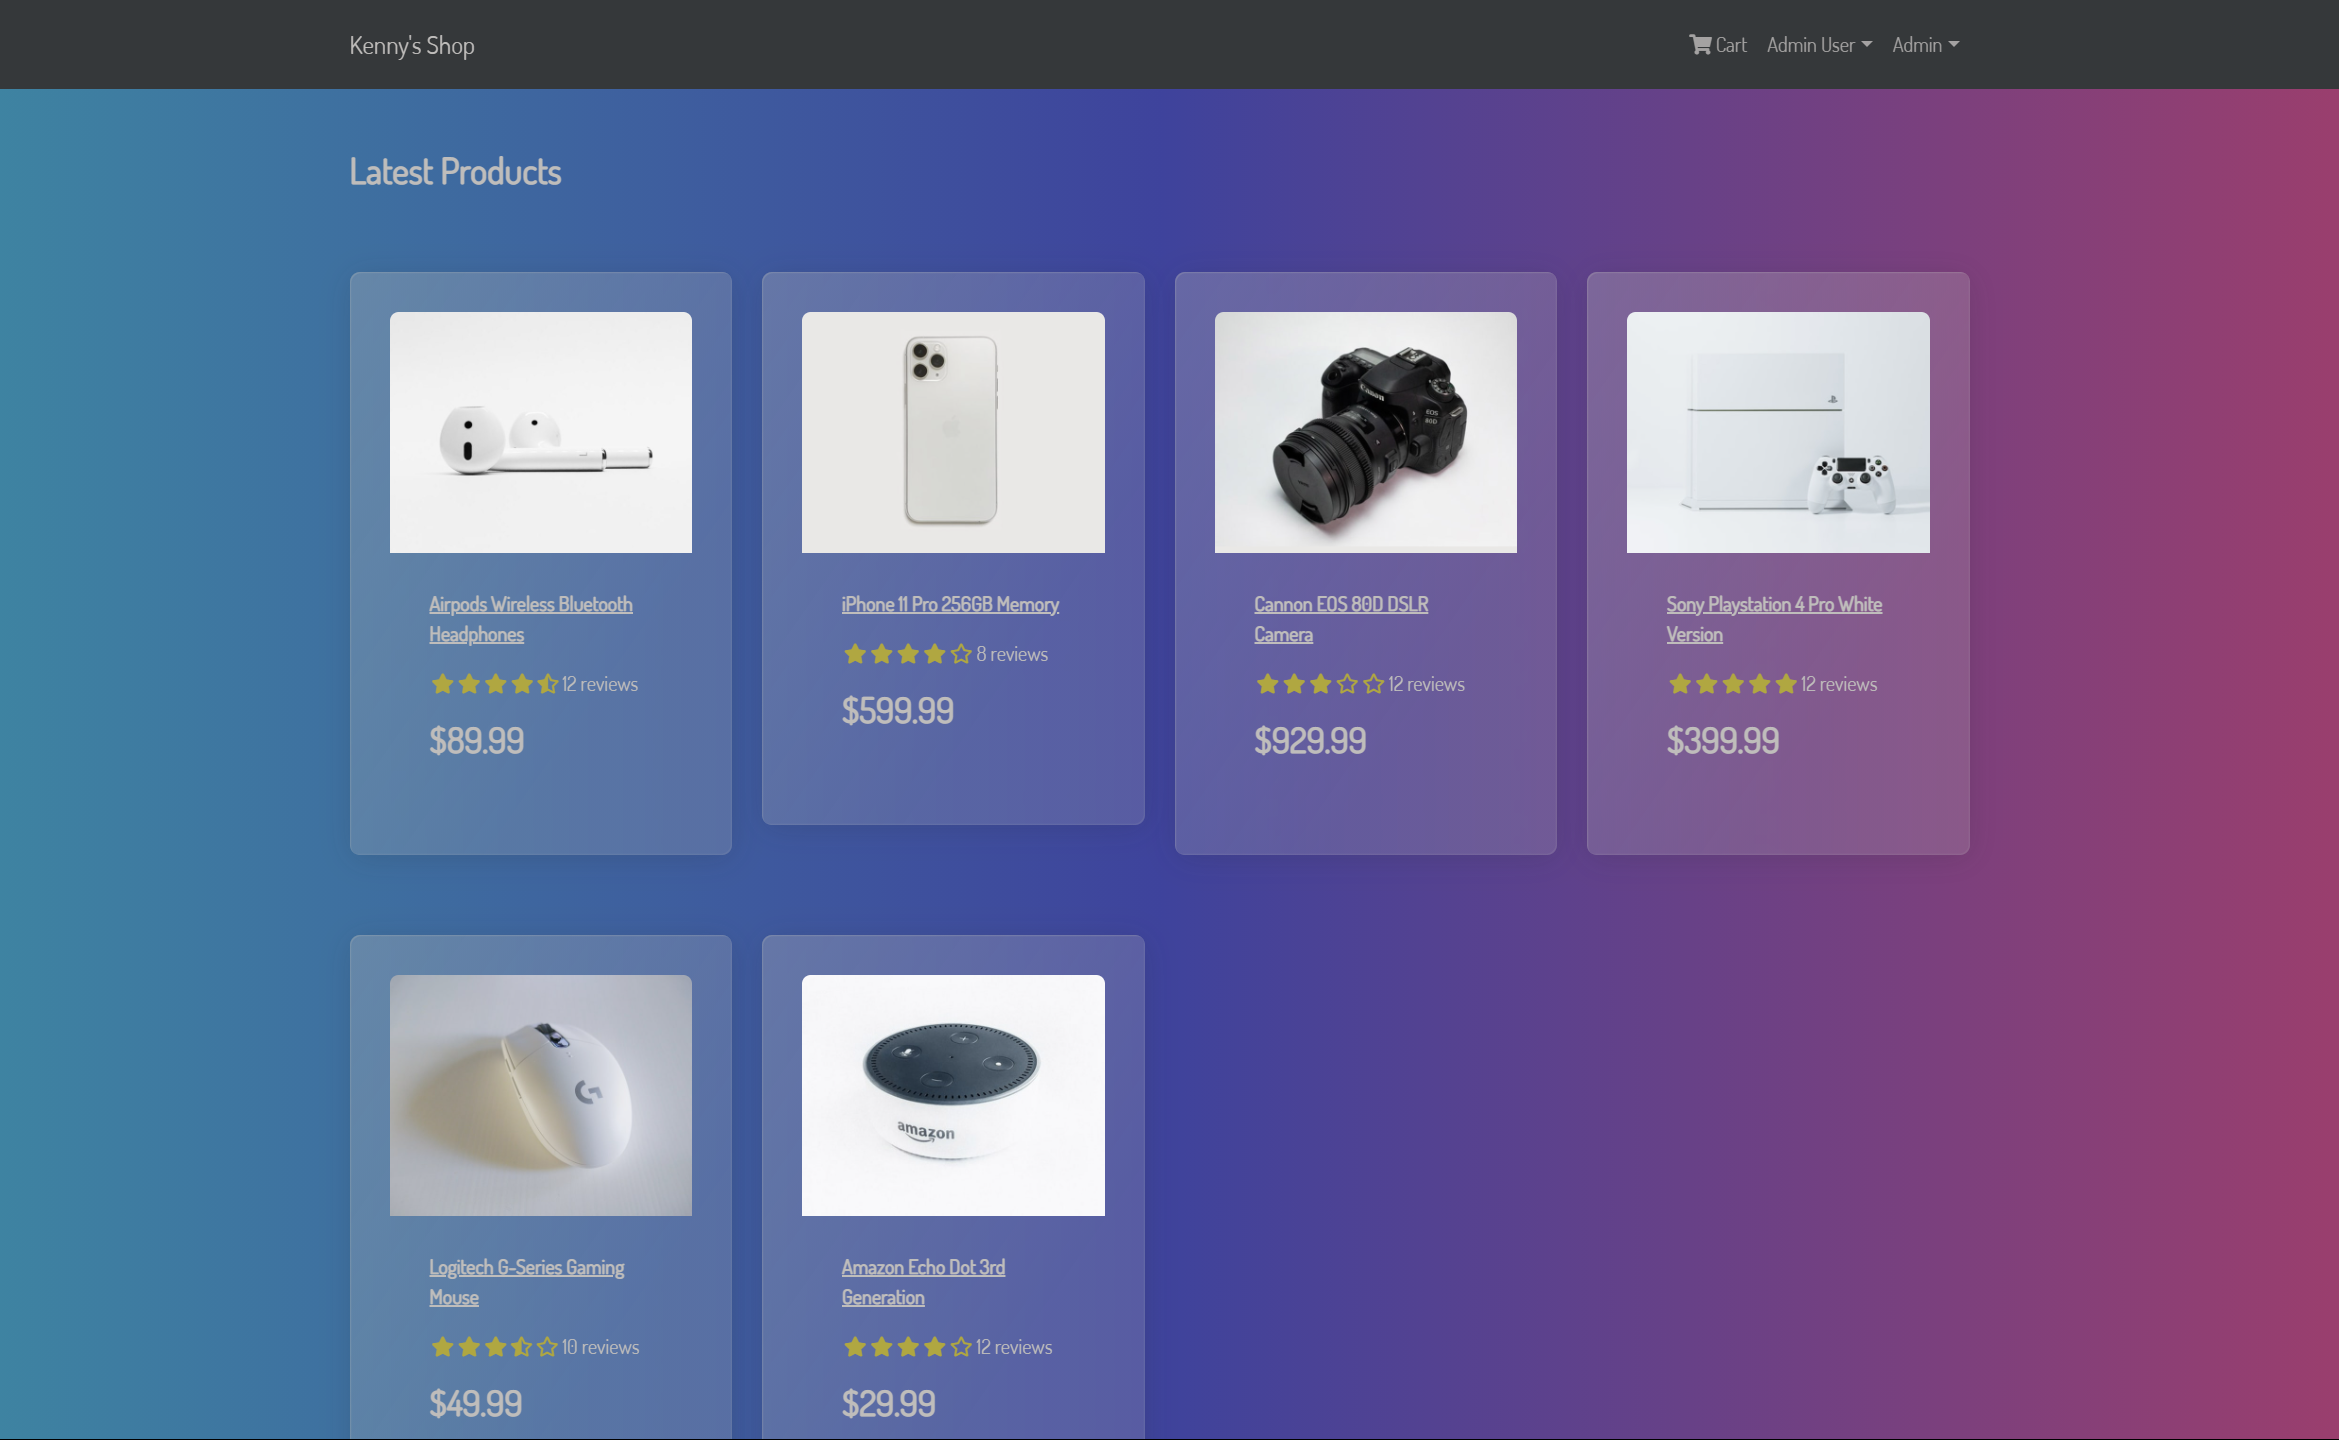
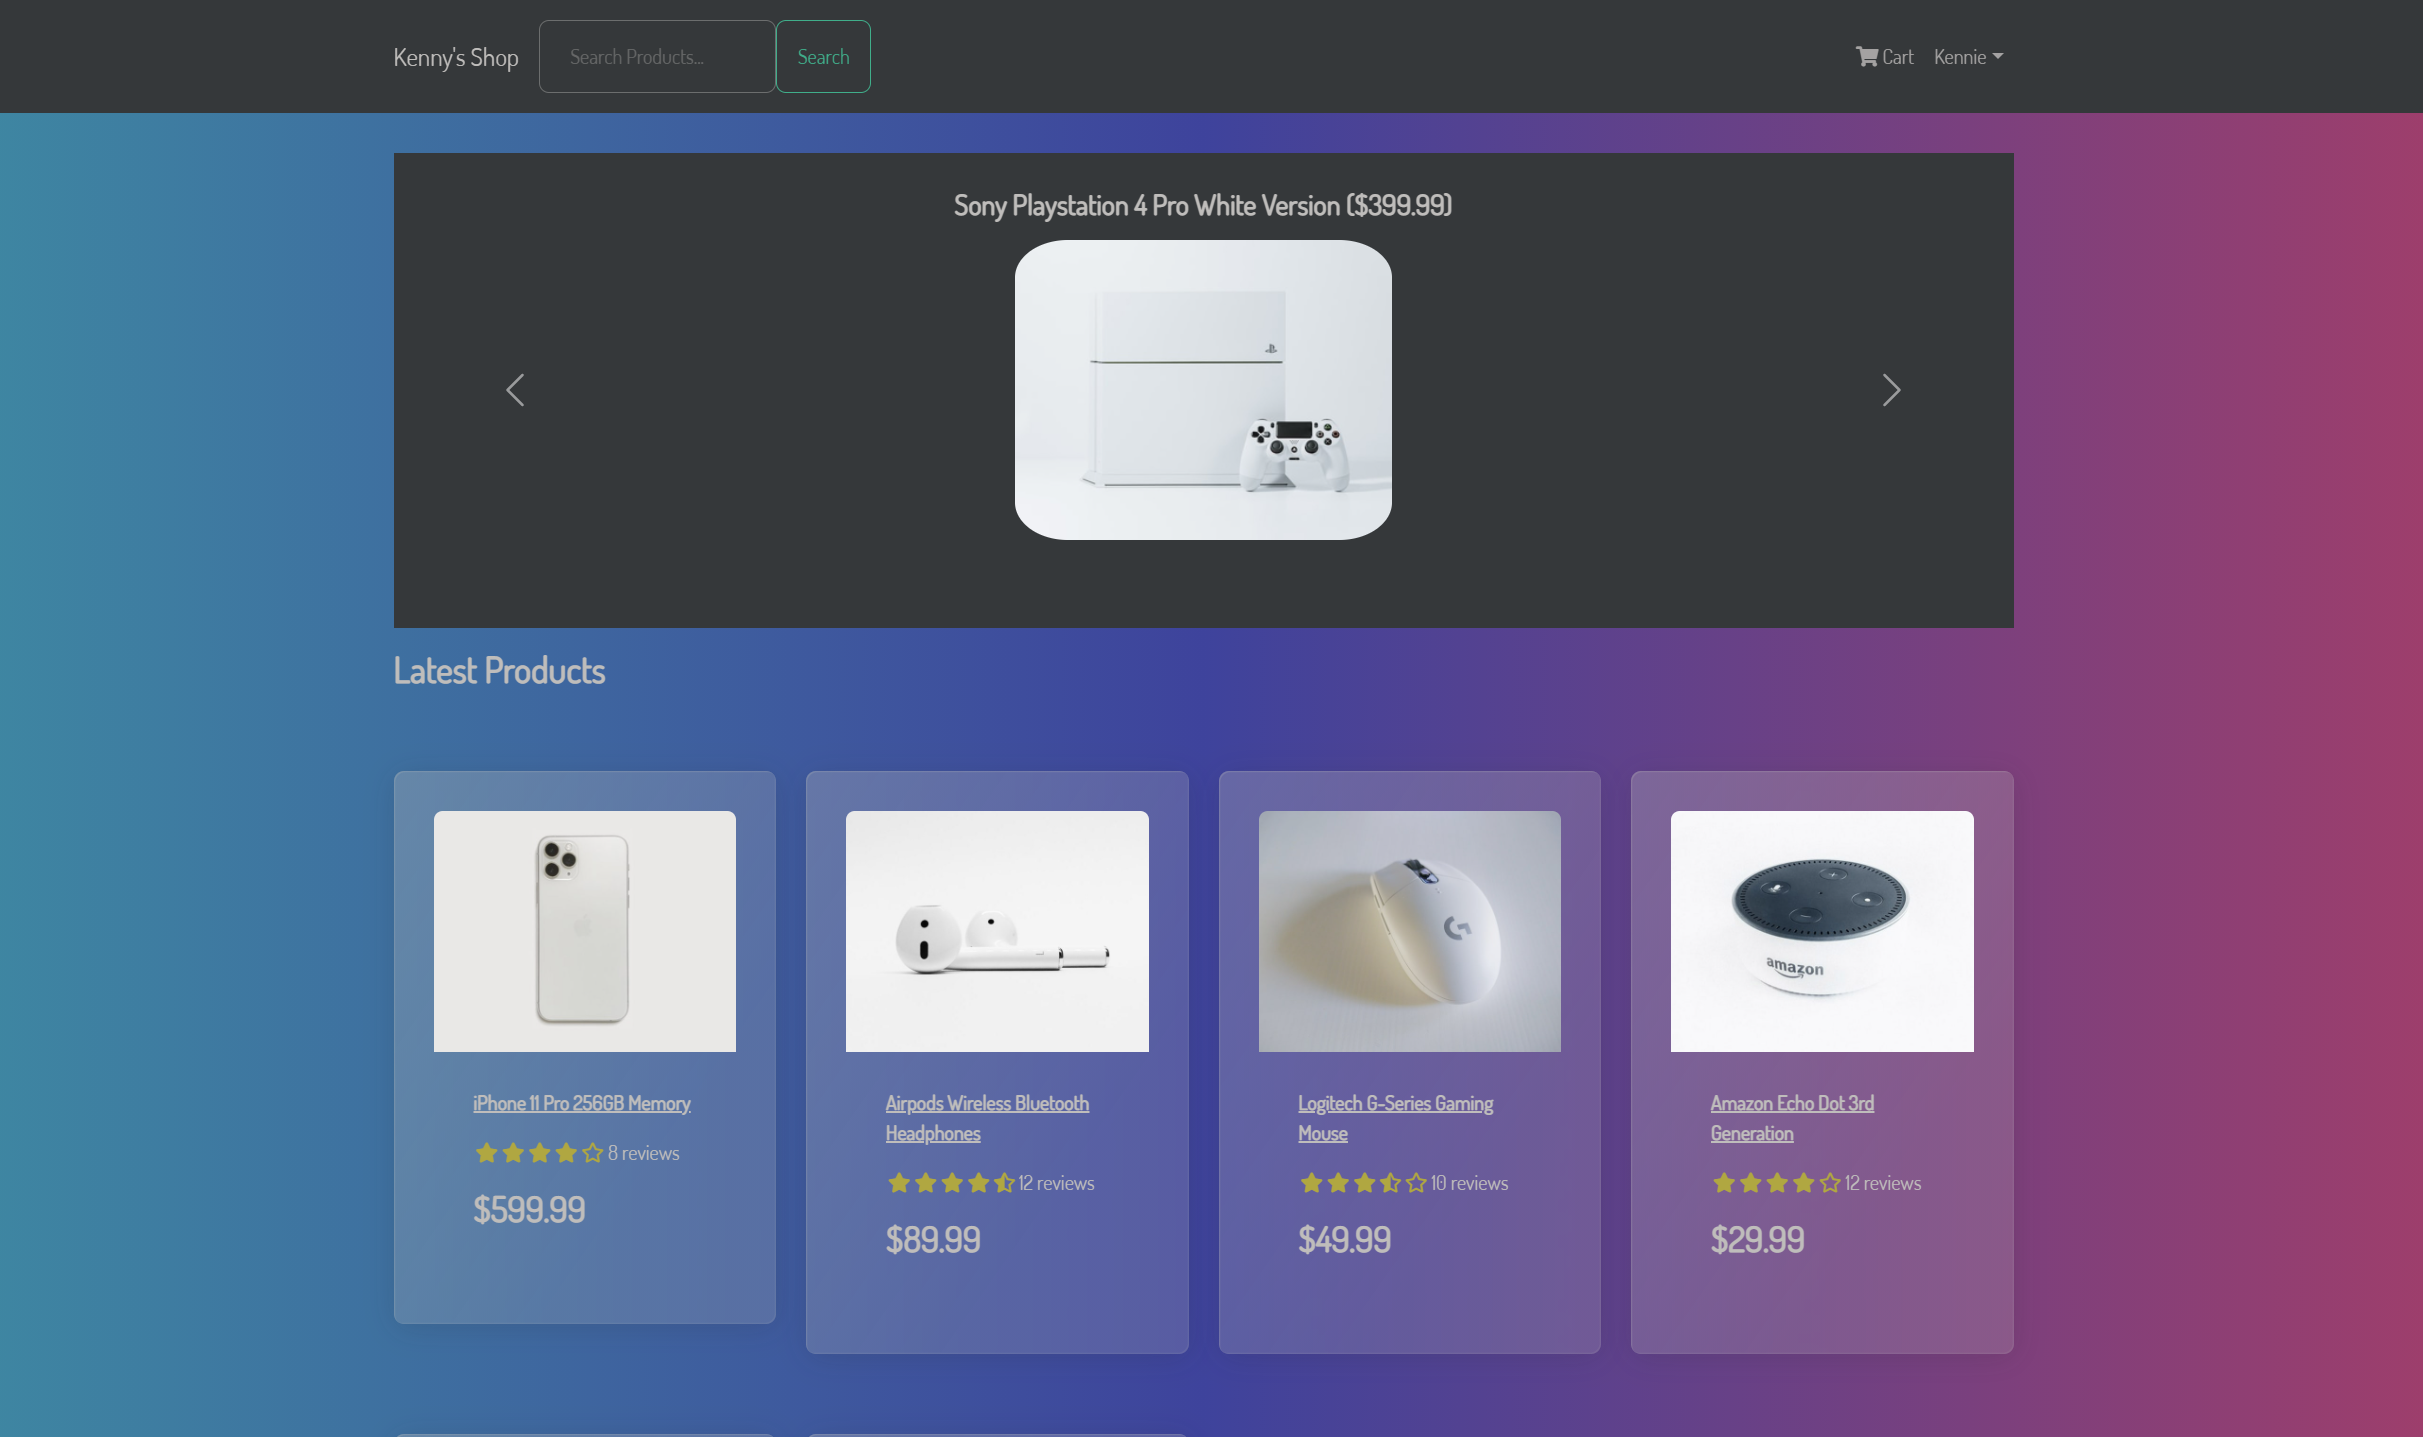
added carousel

diff --git a/frontend/src/screens/HomeScreen.jsx b/frontend/src/screens/HomeScreen.jsx
@@ -1,56 +1,62 @@
-import React, { useState, useEffect } from 'react';
-// use to dispatch our actions & use to select the part of state
-import { useDispatch, useSelector } from 'react-redux';
-import { Row, Col } from 'react-bootstrap';
-import Product from '../components/Product';
-import Loader from '../components/Loader';
-import Paginate from '../components/Paginate';
-import Message from '../components/Message';
-import { listProducts } from '../actions/productActions';
+import React, { useEffect } from 'react'
+import { Link } from 'react-router-dom'
+import { useDispatch, useSelector } from 'react-redux'
+import { Row, Col } from 'react-bootstrap'
+import Product from '../components/Product'
+import Message from '../components/Message'
+import Loader from '../components/Loader'
+import Paginate from '../components/Paginate'
+import ProductCarousel from '../components/ProductCarousel'
+//import Meta from '../components/Meta'
+import { listProducts } from '../actions/productActions'
 
 const HomeScreen = ({ match }) => {
-	const keyword = match.params.keyword;
+  const keyword = match.params.keyword
 
-	const pageNumber = match.params.pageNumber || 1;
+  const pageNumber = match.params.pageNumber || 1
 
-	const dispatch = useDispatch();
+  const dispatch = useDispatch()
 
-	const productList = useSelector((state) => state.productList);
-	const { loading, products, error, page, pages } = productList;
+  const productList = useSelector((state) => state.productList)
+  const { loading, error, products, page, pages } = productList
 
-	useEffect(() => {
-		dispatch(listProducts(keyword, pageNumber));
-	}, [dispatch, keyword, pageNumber]);
+  useEffect(() => {
+    dispatch(listProducts(keyword, pageNumber))
+  }, [dispatch, keyword, pageNumber])
 
-	return (
-		<>
-			<h1>Latest Products</h1>
-			{/* //=-------------------- Products Image -------------------- */}
-			{/* if is loading (loading == true) => show {Loader} */}
-			{/* else if there is any error (error != null) => show error {Message} */}
-			{/* else (loading finished & no error) => showing our {main page} */}
-			{loading ? (
-				<Loader />
-			) : error ? (
-				<Message variant="danger">{error}</Message>
-			) : (
-				<>
-					<Row>
-						{products.map((product) => (
-							<Col key={product._id} sm={12} md={6} lg={4} xl={3}>
-								<Product product={product} />
-							</Col>
-						))}
-					</Row>
-					<Paginate
-						pages={pages}
-						page={page}
-						keyword={keyword ? keyword : ''}
-					/>
-				</>
-			)}
-		</>
-	);
-};
+  return (
+    <>
+      {/* <Meta /> */}
+      {!keyword ? (
+        <ProductCarousel />
+      ) : (
+        <Link to='/' className='btn btn-light'>
+          Go Back
+        </Link>
+      )}
+      <h1>Latest Products</h1>
+      {loading ? (
+        <Loader />
+      ) : error ? (
+        <Message variant='danger'>{error}</Message>
+      ) : (
+        <>
+          <Row>
+            {products.map((product) => (
+              <Col key={product._id} sm={12} md={6} lg={4} xl={3}>
+                <Product product={product} />
+              </Col>
+            ))}
+          </Row>
+          <Paginate
+            pages={pages}
+            page={page}
+            keyword={keyword ? keyword : ''}
+          />
+        </>
+      )}
+    </>
+  )
+}
 
-export default HomeScreen;
+export default HomeScreen

diff --git a/backend/controller/productController.js b/backend/controller/productController.js
@@ -5,26 +5,25 @@ import Product from '../models/productModel.js';
 // @route   GET /api/products
 // @access  Public
 const getProducts = expressAsyncHandler(async (req, res) => {
-  const pageSize = 9
-  const page = Number(req.query.pageNumber) || 1
+	const pageSize = 9;
+	const page = Number(req.query.pageNumber) || 1;
 
-  const keyword = req.query.keyword
-    ? {
-        name: {
-          $regex: req.query.keyword,
-          $options: 'i',
-        },
-      }
-    : {}
+	const keyword = req.query.keyword
+		? {
+				name: {
+					$regex: req.query.keyword,
+					$options: 'i',
+				},
+		  }
+		: {};
 
-  const count = await Product.countDocuments({ ...keyword })
-  const products = await Product.find({ ...keyword })
-    .limit(pageSize)
-    .skip(pageSize * (page - 1))
+	const count = await Product.countDocuments({ ...keyword });
+	const products = await Product.find({ ...keyword })
+		.limit(pageSize)
+		.skip(pageSize * (page - 1));
 
-  res.json({ products, page, pages: Math.ceil(count / pageSize) })
-})
-
+	res.json({ products, page, pages: Math.ceil(count / pageSize) });
+});
 
 // @desc    Fetch single product
 // @route   GET /api/products/:id
@@ -148,6 +147,15 @@ const createProductReview = expressAsyncHandler(async (req, res) => {
 	}
 });
 
+// @desc    Get top rated products
+// @route   GET /api/products/top
+// @access  Public
+const getTopProducts = expressAsyncHandler(async (req, res) => {
+	const products = await Product.find({}).sort({ rating: -1 }).limit(3);
+
+	res.json(products);
+});
+
 export {
 	getProducts,
 	getProductById,
@@ -155,4 +163,5 @@ export {
 	createProduct,
 	updateProduct,
 	createProductReview,
+	getTopProducts,
 };

diff --git a/frontend/src/components/ProductCarousel.jsx b/frontend/src/components/ProductCarousel.jsx
@@ -1,0 +1,41 @@
+import React, { useEffect } from 'react';
+import { Link } from 'react-router-dom';
+import { Carousel, Image } from 'react-bootstrap';
+import { useDispatch, useSelector } from 'react-redux';
+import Loader from './Loader';
+import Message from './Message';
+import { listTopProducts } from '../actions/productActions';
+
+const ProductCarousel = () => {
+	const dispatch = useDispatch();
+
+	const productTopRated = useSelector((state) => state.productTopRated);
+	const { loading, error, products } = productTopRated;
+
+	useEffect(() => {
+		dispatch(listTopProducts());
+	}, [dispatch]);
+
+	return loading ? (
+		<Loader />
+	) : error ? (
+		<Message variant="danger">{error}</Message>
+	) : (
+		<Carousel pause="hover" className="bg-dark">
+			{products.map((product) => (
+				<Carousel.Item key={product._id}>
+					<Link to={`/product/${product._id}`}>
+						<Image src={product.image} alt={product.name} fluid />
+						<Carousel.Caption className="carousel-caption">
+							<h2>
+								{product.name} (${product.price})
+							</h2>
+						</Carousel.Caption>
+					</Link>
+				</Carousel.Item>
+			))}
+		</Carousel>
+	);
+};
+
+export default ProductCarousel;

diff --git a/frontend/src/reducers/productReducers.jsx b/frontend/src/reducers/productReducers.jsx
@@ -20,6 +20,9 @@ import {
 	PRODUCT_CREATE_REVIEW_SUCCESS,
 	PRODUCT_CREATE_REVIEW_FAIL,
 	PRODUCT_CREATE_REVIEW_RESET,
+  PRODUCT_TOP_REQUEST,
+  PRODUCT_TOP_SUCCESS,
+  PRODUCT_TOP_FAIL,
 } from '../constants/productConstants';
 
 export const productListReducer = (state = { products: [] }, action) => {
@@ -134,3 +137,19 @@ export const productReviewCreateReducer = (state = {}, action) => {
 			return state;
 	}
 };
+
+export const productTopRatedReducer = (state = { products: [] }, action) => {
+  switch (action.type) {
+    case PRODUCT_TOP_REQUEST:
+      return { loading: true, products: [] }
+
+    case PRODUCT_TOP_SUCCESS:
+      return { loading: false, products: action.payload }
+
+    case PRODUCT_TOP_FAIL:
+      return { loading: false, error: action.payload }
+
+    default:
+      return state
+  }
+}

diff --git a/frontend/src/actions/productActions.jsx b/frontend/src/actions/productActions.jsx
@@ -18,6 +18,9 @@ import {
 	PRODUCT_CREATE_REVIEW_REQUEST,
 	PRODUCT_CREATE_REVIEW_SUCCESS,
 	PRODUCT_CREATE_REVIEW_FAIL,
+	PRODUCT_TOP_REQUEST,
+	PRODUCT_TOP_SUCCESS,
+	PRODUCT_TOP_FAIL,
 } from '../constants/productConstants';
 
 export const listProducts =
@@ -216,3 +219,25 @@ export const createProductReview =
 			});
 		}
 	};
+
+	export const listTopProducts = () => async (dispatch) => {
+		try {
+			dispatch({ type: PRODUCT_TOP_REQUEST })
+	
+			const { data } = await axios.get(`/api/products/top`)
+	
+			dispatch({
+				type: PRODUCT_TOP_SUCCESS,
+				payload: data,
+			})
+		} catch (error) {
+			dispatch({
+				type: PRODUCT_TOP_FAIL,
+				payload:
+					error.response && error.response.data.message
+						? error.response.data.message
+						: error.message,
+			})
+		}
+	}
+	

diff --git a/frontend/src/index.css b/frontend/src/index.css
@@ -19,3 +19,35 @@ h2 {
 .rating span {
 	margin: 0.1rem;
 }
+
+/* carousel */
+.carousel-item-next,
+.carousel-item-prev,
+.carousel-item.active {
+  display: flex;
+}
+.carousel-caption {
+  position: absolute;
+  top: 0;
+}
+
+.carousel-caption h2 {
+  color: #fff;
+}
+
+.carousel img {
+  height: 300px;
+  padding: 30px;
+  margin: 40px;
+  border-radius: 20%;
+  margin-left: auto;
+  margin-right: auto;
+}
+.carousel a {
+  margin: 0 auto;
+}
+@media (max-width: 900px) {
+  .carousel-caption h2 {
+    font-size: 2.5vw;
+  }
+}

diff --git a/frontend/src/store.jsx b/frontend/src/store.jsx
@@ -8,6 +8,7 @@ import {
 	productCreateReducer,
 	productUpdateReducer,
 	productReviewCreateReducer,
+	productTopRatedReducer,
 } from './reducers/productReducers';
 
 import { cartReducer } from './reducers/cartReducers';
@@ -36,6 +37,7 @@ const reducer = combineReducers({
 	productCreate: productCreateReducer,
 	productUpdate: productUpdateReducer,
 	productReviewCreate: productReviewCreateReducer,
+	productTopRated: productTopRatedReducer,
 	cart: cartReducer,
 	userLogin: userLoginReducer,
 	userRegister: userRegisterReducer,

diff --git a/backend/routes/productRoutes.js b/backend/routes/productRoutes.js
@@ -6,12 +6,14 @@ import {
 	deleteProduct,
 	createProduct,
 	updateProduct,
-	createProductReview
+	createProductReview,
+	getTopProducts,
 } from '../controller/productController.js';
 import { protect, admin } from '../middleware/authMiddleware.js';
 
 router.route('/').get(getProducts).post(protect, admin, createProduct);
 router.route('/:id/reviews').post(protect, createProductReview);
+router.get('/top', getTopProducts);
 router
 	.route('/:id')
 	.get(getProductById)
